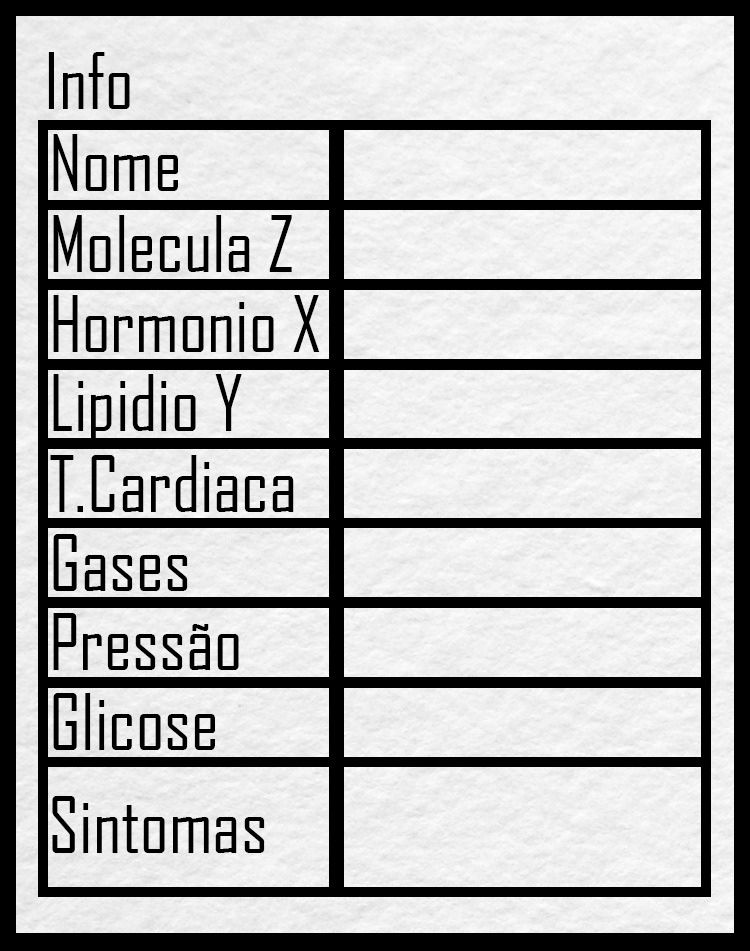
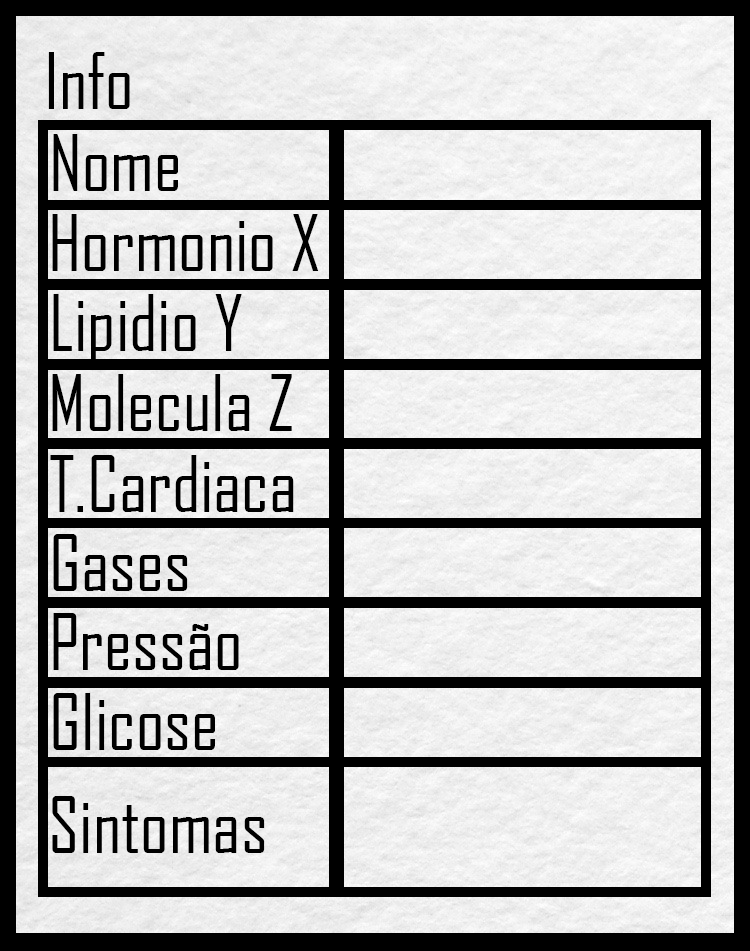
DSA

Changed region(s): [[0.0613, 0.2135, 0.4293, 0.4574]]

diff --git a/Assets/Script/Client/Client.cs b/Assets/Script/Client/Client.cs
@@ -18,7 +18,7 @@ public class Client : MonoBehaviour
 
     }
 
-    public void AddStats() 
+    public void AddStats()
     {
         stats = ClientStats.CreateRandomClientStats();
         int n = 0;
@@ -38,56 +38,70 @@ public class Client : MonoBehaviour
     }
     public void Listner_onClientEnter(Transform obj)
     {
+
+        StartCoroutine(EnterRoom(obj));
+
+    }
+    public void GoToExames(bool[] newActives, float time)
+    {
+        StartCoroutine(GoToExamesAnim(newActives, time));
+    }
+    public void FinishAppointment()
+    {
+        StartCoroutine(FinishAppointmentAnim());
+    }
+    IEnumerator Wait(float i)
+    {
+        yield return new WaitForSeconds(i);
+        isWainting = false;
+    }
+    IEnumerator EnterRoom(Transform obj)
+    {
+        move.MoveRoom(true);
+        yield return new WaitForSeconds(move.animTime);
         fichaInstance = Instantiate(fichaTempalte, obj);
         Analyse analyse = fichaInstance.GetComponent<Analyse>();
         analyse.gm = gameManager;
         analyse.confirmButton.client = this;
         analyse.confirmButton.gameManager = gameManager;
-        analyse.ficha.Show(stats,activeCamps);
+        analyse.ficha.Show(stats, activeCamps);
         analyse.exames.client = this;
-        
     }
-    public void GoToExames(bool[] newActives,float time) 
+    IEnumerator FinishAppointmentAnim()
     {
-        isWainting = true;
-        int i = 0;
-		foreach (bool b in newActives) 
-        {
-			if (b) 
-            {
-                activeCamps[i] = b;
-            }
-            i++;
-        }
-		if (fichaInstance != null) 
-        { 
-            Destroy(fichaInstance);
-        }
-        StartCoroutine(Wait(time));
-        ExamQueue.instance.waitingClients.Add(this);
-        QueryQueue.instance.waitingClients.Remove(this);
-        QueryQueue.instance.ListUpdate();
-    }
-    public void FinishAppointment() 
-    {
+        move.MoveRoom(false);
         if (fichaInstance != null)
         {
             Destroy(fichaInstance);
-
         }
+        yield return new WaitForSeconds(move.animTime);
         ConfirmedQueue.instance.confirmdClients.Add(this);
         QueryQueue.instance.waitingClients.Remove(this);
         QueryQueue.instance.ListUpdate();
         ConfirmedQueue.instance.confirmdClients.Remove(this);
         Destroy(gameObject);
     }
-    IEnumerator Wait(float i) 
+    IEnumerator GoToExamesAnim(bool[] newActives, float time)
     {
-        yield return new WaitForSeconds(i);
-        isWainting = false;
-    }
-	private void OnDestroy()
-	{
-        
+        move.MoveRoom(false);
+        if (fichaInstance != null)
+        {
+            Destroy(fichaInstance);
+        }
+        yield return new WaitForSeconds(move.animTime);
+        isWainting = true;
+        int i = 0;
+        foreach (bool b in newActives)
+        {
+            if (b)
+            {
+                activeCamps[i] = b;
+            }
+            i++;
+        }
+        StartCoroutine(Wait(time));
+        ExamQueue.instance.waitingClients.Add(this);
+        QueryQueue.instance.waitingClients.Remove(this);
+        QueryQueue.instance.ListUpdate();
     }
 }

diff --git a/Assets/Script/UI/DiseaseDropdownScript.cs b/Assets/Script/UI/DiseaseDropdownScript.cs
@@ -12,7 +12,7 @@ public class DiseaseDropdownScript : MonoBehaviour
     void Start()
     {
         dpd.AddOptions(ClientStatsConst.DISEASENAMES.ToList<string>());
-        
+        onChange();
     }
     public string GetItemText() 
     {
@@ -22,12 +22,12 @@ public class DiseaseDropdownScript : MonoBehaviour
     {
         int i = dpd.value;
         text[0].text = ClientStatsConst.DISEASENAMES[i];
-        text[1].text = MinMaxStat(ClientStatsConst.ZMOLEC[i].min.ToString(), 
-                                  ClientStatsConst.ZMOLEC[i].max.ToString());
-        text[2].text = MinMaxStat(ClientStatsConst.XHORMONIO[i].min.ToString(),
+        text[1].text = MinMaxStat(ClientStatsConst.XHORMONIO[i].min.ToString(), 
                                   ClientStatsConst.XHORMONIO[i].max.ToString());
-        text[3].text = MinMaxStat(ClientStatsConst.YLIPIDIO[i].min.ToString(),
+        text[2].text = MinMaxStat(ClientStatsConst.YLIPIDIO[i].min.ToString(),
                                   ClientStatsConst.YLIPIDIO[i].max.ToString());
+        text[3].text = MinMaxStat(ClientStatsConst.ZMOLEC[i].min.ToString(),
+                                  ClientStatsConst.ZMOLEC[i].max.ToString());
         text[4].text = MinMaxStat(ClientStatsConst.CARDIACFRENQUENCY[i].min.ToString(),
                                   ClientStatsConst.CARDIACFRENQUENCY[i].max.ToString());
         text[5].text = MinMaxStat(ClientStatsConst.GASES[i].min.ToString(),

diff --git a/Assets/Script/Client/ClientMovement.cs b/Assets/Script/Client/ClientMovement.cs
@@ -6,7 +6,7 @@ public class ClientMovement : MonoBehaviour
 {
     [SerializeField]Animator animatorBody;
     [SerializeField]Animator animatorSprite;
-    public float AnimTime;
+    public float animTime;
     void Start()
     {
         
